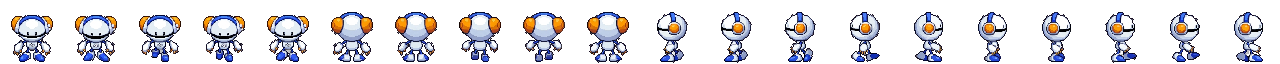
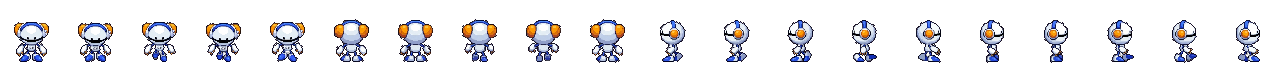
오투모: 크기 줄이기(키 50 → 42) · 목도리 · 얼굴 자리 다시 맞춤 · 넘어진 모습을 머리부터 흙에 처박힌 모습으로 · 학교 · 마을을 걷던 학생을 바로 북서쪽 숲 끝 외진 곳으로 데려가 비행선 추락 연출 시작
Claude-Session: https://claude.ai/code/session_01HhJ2NoNCjk5kaA3GWL7UDs

Changed region(s): [[0.0, 0.1875, 1.0, 0.9688]]

diff --git a/public/index.html b/public/index.html
@@ -882,6 +882,7 @@ body.gtride #bar,body.gtride #chat,body.gtride #ctx,body.gtride .corner{opacity:
 .say.bb-snow{background:#1E2048;color:#FFF3C8;box-shadow:0 0 0 2px #FFE9A0,0 0 10px rgba(255,233,160,.6);border-radius:12px}.say.bb-snow::after{border-top-color:#FFE9A0}.say.bb-snow::before{content:'★';position:absolute;left:-7px;top:-9px;font-size:12px;color:#FFE9A0;text-shadow:0 0 6px #FFE9A0}
 .adknit{display:flex;gap:12px;flex-wrap:wrap;align-items:flex-start;margin:8px 0;padding:8px;border-radius:10px;background:rgba(255,184,168,.08)}.adknit>div:first-child{display:flex;flex-direction:column;align-items:center;gap:4px}.adknit [data-knitdoll]{min-width:384px;height:128px;display:flex;background:#2A1E3A;border-radius:10px}.adknit canvas,.adknit img,.adknitall canvas,.adknitall img{image-rendering:pixelated;display:block}.adknit small{font-size:11px;opacity:.75;max-width:384px;text-align:center}.adknitall{display:grid;grid-template-columns:repeat(auto-fill,minmax(200px,1fr));gap:6px;flex:1;min-width:200px}.adknitall span{display:flex;flex-direction:column;align-items:center;font-size:11px;gap:2px}.adknitall i{width:192px;height:64px;background:#2A1E3A;border-radius:8px;display:flex}
 .say.bb-garden{background:#E8FFD8;color:#1E3A14;box-shadow:0 0 0 2px #5AA84A;border-radius:12px}.say.bb-garden::after{border-top-color:#5AA84A}.say.bb-garden::before{content:'';position:absolute;right:-6px;top:-8px;width:10px;height:8px;background:#5AA84A;border-radius:8px 0 8px 0}
+#otcover{position:fixed;inset:0;background:#05030a;opacity:0;transition:opacity .7s;z-index:344;pointer-events:none}#otcover.on{opacity:1}
 #otbang{position:fixed;left:50%;top:38%;transform:translate(-50%,-50%) scale(.4) rotate(-8deg);opacity:0;z-index:345;font-family:var(--f-pxb);font-size:44px;color:#FFE9A0;text-shadow:3px 3px 0 #1a1024,-2px -2px 0 #1a1024;transition:all .25s cubic-bezier(.2,1.6,.4,1);pointer-events:none}#otbang.on{opacity:1;transform:translate(-50%,-50%) scale(1) rotate(-8deg)}
 #cv.otshake{animation:otshake .45s}@keyframes otshake{20%{transform:translate(-4px,3px)}40%{transform:translate(4px,-3px)}60%{transform:translate(-3px,-2px)}80%{transform:translate(2px,2px)}}
 #knv{position:fixed;left:50%;top:calc(50% + 4px);transform:translate(-50%,-50%) scale(.92);opacity:0;transition:all .35s cubic-bezier(.2,1.3,.4,1);z-index:330;width:min(94vw,390px);max-height:calc(100vh - 150px);overflow:auto;background:rgba(20,13,34,.97);border:2px solid #FFB8A8;border-radius:16px;padding:10px;font-family:var(--f-px);color:#F1E9FF;box-shadow:0 0 24px rgba(255,184,168,.3);overscroll-behavior:contain}
@@ -4248,7 +4249,7 @@ function renderCook(){
 const NPC_ART_V = 7;
 const NPC_DATA_V = 3;   // data/npc 캐시 버전
 // LPC NPC 그림(art/npcs.png: 한 줄 = 한 명, 64칸 20개)에서 얼굴 부분만 크게 (초상화)
-const NPC_FACE = { 0: [13, 14, 31], 1: [18, 12, 29], 2: [20, 16, 28], 3: [17, 18, 31], 4: [19, 23, 32], 5: [12, 9, 39], 13: [11, 11, 42] };   // 동물·허수아비는 사람과 머리 위치가 달라요 (나비·배트리·캇파·아울라·맨디·스트로 얼굴 틀: x, y, 크기)
+const NPC_FACE = { 0: [13, 14, 31], 1: [18, 12, 29], 2: [20, 16, 28], 3: [17, 18, 31], 4: [19, 23, 32], 5: [12, 9, 39], 13: [14, 20, 35] };   // 동물·허수아비는 사람과 머리 위치가 달라요 (나비·배트리·캇파·아울라·맨디·스트로 얼굴 틀: x, y, 크기)
 const npcFace = (spr, size = 48) => {   // 액자 크기가 CSS로 바뀌어도(관계 화면 40px 등) 얼굴이 가운데에 오도록 그림 크기·위치를 퍼센트로 계산해요
   const hb = NPC_FACE[spr], B = hb ? { x: hb[0], y: hb[1], s: hb[2] } : World.Avatar.headBox, SW = 64 * 20, SH = 64 * 14;
   return `<i class="npcspr" style="width:${size}px;height:${size}px;background:url(art/npcs.webp?v=${NPC_ART_V}) ${(B.x / (SW - B.s) * 100).toFixed(3)}% ${((spr * 64 + B.y) / (SH - B.s) * 100).toFixed(3)}%/${(SW / B.s * 100).toFixed(2)}% ${(SH / B.s * 100).toFixed(2)}% no-repeat"></i>`; };
@@ -9723,7 +9724,7 @@ const knFace = (n, sc) => g => { g.fillStyle = '#2A1E3A'; g.fillRect(0, 0, 32, 3
   if (n.av){ const S = World.Avatar.compose(sc ? knAvWith(npcAv(n), sc) : npcAv(n)), B = World.Avatar.headBox; if (S) g.drawImage(S, B.x, B.y, B.s, B.s, 0, 0, 32, 32); return; }
   const f = NPC_FACE[n.spr], I = knSprSheet(n, sc) || knNpcImg(); if (f && (I.width || I.complete)) g.drawImage(I, f[0], (I === NPC_IMG_STAGE ? n.spr * 64 : 0) + f[1], f[2], f[2], 0, 0, 32, 32); };
 // ---------- 그림 NPC(동물 · 허수아비) 목도리: 앞 · 옆 · 뒤마다 직접 잡은 목 자리 (tools/iso/lpc/knit_npc.py와 같아요) ----------
-const KN_SP = { 13: [[40, 24, 41], [42, 27, 36], [40, 25, 39]], 0: [[40, 23, 34], [42, 22, 30], [36, 28, 40]], 1: [[38, 26, 39], [37, 24, 34], [37, 27, 41]], 2: [[39, 27, 41], [39, 28, 42], [38, 28, 42]], 3: [[41, 24, 39], [41, 25, 37], [40, 22, 41]], 5: [[40, 26, 38], [40, 27, 37], [40, 26, 38]] };
+const KN_SP = { 13: [[42, 23, 40], [44, 28, 36], [43, 23, 38]], 0: [[40, 23, 34], [42, 22, 30], [36, 28, 40]], 1: [[38, 26, 39], [37, 24, 34], [37, 27, 41]], 2: [[39, 27, 41], [39, 28, 42], [38, 28, 42]], 3: [[41, 24, 39], [41, 25, 37], [40, 22, 41]], 5: [[40, 26, 38], [40, 27, 37], [40, 26, 38]] };
 const KN_LEAF = [[37, 31, 37], [37, 30, 36], [37, 31, 37]];   // 맨디: 가운데 잎줄기
 const knRgb = h => { const n = parseInt(h.slice(1), 16); return [n >> 16 & 255, n >> 8 & 255, n & 255]; };
 function knFill(L, pts, ramp){   // LPC식 칠하기: 왼쪽 위가 밝고 · V 뜨개 결 · 바깥 테두리는 가장 진한 색
@@ -9988,12 +9989,16 @@ function placeNear(){   // 지금 서 있는 곳에서 가장 가까운 장소 (
 function otCell(col, mode){   // NPC 그림 14 번째 줄의 한 칸 → 64 × 64 · mode: 'down' 엎어짐 · 'twitch' 꿈틀 · 'glitch' 지지직
   const I = NPC_IMG_STAGE || (NPC_IMG_STAGE = Object.assign(new Image(), { src: `art/npcs.webp?v=${NPC_ART_V}` })), c = document.createElement('canvas'); c.width = c.height = 64; const g = c.getContext('2d'); g.imageSmoothingEnabled = false;
   if (!I.complete || !I.naturalWidth) return c;
-  if (mode === 'down' || mode === 'twitch'){ g.save(); g.translate(32, 50 + (mode === 'twitch' ? -1 : 0)); g.rotate(-Math.PI / 2 + (mode === 'twitch' ? .08 : 0)); g.drawImage(I, col * 64, 13 * 64, 64, 64, -50, -32, 64, 64); g.restore(); }
+  if (mode === 'down' || mode === 'twitch'){   // 머리부터 흙에 처박혀서 다리만 위로 (뒷모습을 거꾸로) · 꿈틀이면 다리가 바르작
+    const w = mode === 'twitch' ? 1 : 0; g.save(); g.beginPath(); g.rect(0, 0, 64, 53); g.clip(); g.translate(32 + w, 64 + 25); g.scale(1, -1); g.drawImage(I, 5 * 64, 13 * 64, 64, 64, -32, 0, 64, 64); g.restore();
+    const ell = (cx, cy, rx, ry, col) => { g.fillStyle = col; g.beginPath(); g.ellipse(cx, cy, rx, ry, 0, 0, 7); g.fill(); }; ell(32, 55, 19, 5, '#1a1024'); ell(32, 54, 18, 4, '#6a4428'); ell(29, 53, 11, 2, '#8a5c36');   // 흙더미
+    g.fillStyle = '#1a1024'; [[12, 51], [50, 52], [18, 57], [46, 57]].forEach(([x, y]) => g.fillRect(x, y, 3, 2));
+    if (mode === 'down'){ g.fillStyle = '#fff3a0'; [[22, 30], [42, 28], [32, 24]].forEach(([x, y]) => { g.fillRect(x, y, 1, 3); g.fillRect(x - 1, y + 1, 3, 1); }); } }   // 어지러운 별
   else { const jx = mode === 'glitch' ? Math.round(Math.random() * 4 - 2) : 0; g.drawImage(I, col * 64, 13 * 64, 64, 64, jx, 0, 64, 64);
     if (mode === 'glitch'){ g.globalCompositeOperation = 'source-atop'; g.fillStyle = Math.random() < .5 ? 'rgba(120,255,240,.35)' : 'rgba(255,90,120,.3)'; const y = Math.floor(Math.random() * 40) + 10; g.fillRect(0, y, 64, 2 + Math.floor(Math.random() * 3)); g.globalCompositeOperation = 'source-over'; } }
   return c;
 }
-const OT_UFO = [42, 95], OT_LAND = [44, 97];   // 낡은 풍차 옆 빈터 (독초 온실 아래): 부서진 비행선 · 오투모가 엎어진 자리
+const OT_UFO = [11, 5], OT_LAND = [13, 7], OT_START = [16, 9];   // 학교 북서쪽 숲 끝 외진 곳: 부서진 비행선 · 오투모가 처박힌 자리 · 연출이 시작될 때 주인공이 서 있는 자리
 let otUfoCv = null, otUfoT = 0, otUfoOn = false;
 function otUfoDraw(t){   // 반쯤 묻혀 연기 나는 비행선 (80 × 60)
   const c = otUfoCv || (otUfoCv = Object.assign(document.createElement('canvas'), { width: 80, height: 60 })), g = c.getContext('2d'); g.imageSmoothingEnabled = false; g.clearRect(0, 0, 80, 60);
@@ -10014,8 +10019,16 @@ function otUfoDraw(t){   // 반쯤 묻혀 연기 나는 비행선 (80 × 60)
 function otUfoProp(ay = 50){ const c = otUfoDraw(performance.now()); World.setProps('campus', [{ id: 'otufo', x: OT_UFO[0], y: OT_UFO[1], img: c, pxc: c.getContext('2d'), sw: 80, sh: 60, ax: 40, ay, solid: true, light: { r: 26, c: [140, 220, 255], a: .35 } }], 'otufo'); }
 setInterval(() => { if (!otUfoOn || !otUfoCv) return; otUfoDraw(performance.now()); }, 200);   // 같은 그림을 다시 그려서 연기 · 불빛이 움직여요
 function otUfoSync(){ const want = otMet() || otOn; if (want === otUfoOn) return; otUfoOn = want; if (want) otUfoProp(); else World.setProps('campus', [], 'otufo'); }
-async function otIntro(){   // 풍차 옆 빈터: 비행선이 휙 → 철푸덕 → 오투모가 튕겨 나와 엎어짐 → 가 보면 꿈틀 → 지지직 삐리삐리
-  otOn = true; const t = World.meTile(); let dim = null, bang = null;
+async function otIntro(){   // 어디서 걷고 있든 → 화면이 어두워지며 외진 숲 끝으로 → 비행선이 휙 → 철푸덕 → 오투모가 튕겨 나와 처박힘 → 가 보면 꿈틀 → 지지직 삐리삐리
+  otOn = true; let dim = null, bang = null, cover = document.createElement('div');
+  cover.id = 'otcover'; document.body.appendChild(cover); requestAnimationFrame(() => cover.classList.add('on')); await famSleep(700);
+  let arrived = false;
+  for (let k = 0; k < 80 && !arrived; k++){   // 다른 이동 중이면 받아 주지 않아서, 도착할 때까지 다시 불러요
+    if (k % 10 === 0) World.teleport('campus', OT_START);
+    await famSleep(150); const tt = World.meTile && World.meTile(); arrived = !!(tt && tt.m === 'campus' && Math.abs(tt.x - OT_START[0]) + Math.abs(tt.y - OT_START[1]) <= 1 && World.meAt && World.meAt()); }
+  if (!arrived){ cover.classList.remove('on'); setTimeout(() => cover.remove(), 900); otOn = false; return; }   // 못 옮기면 다음에 다시
+  await famSleep(400); World.faceTo && World.faceTo(OT_UFO[0], OT_UFO[1]);
+  cover.classList.remove('on'); setTimeout(() => cover.remove(), 900); await famSleep(900);
   const I = NPC_IMG_STAGE || (NPC_IMG_STAGE = Object.assign(new Image(), { src: `art/npcs.webp?v=${NPC_ART_V}` }));
   if (!I.complete) await new Promise(r => { I.addEventListener('load', r, { once: true }); setTimeout(r, 3000); });
   const spot = OT_LAND, place = (c, ay = 58) => World.setProps('campus', [{ id: 'otfall', x: spot[0], y: spot[1], img: c, pxc: c.getContext('2d'), sw: 64, sh: 64, ax: 32, ay, solid: true }], 'otumo');
@@ -10026,7 +10039,7 @@ async function otIntro(){   // 풍차 옆 빈터: 비행선이 휙 → 철푸덕
     bang = document.createElement('div'); bang.id = 'otbang'; bang.textContent = '철푸덕!'; document.body.appendChild(bang); requestAnimationFrame(() => bang.classList.add('on'));
     const down = otCell(5, 'down'); for (let k = 0; k <= 8; k++){ place(down, 58 + Math.round(Math.sin(k / 8 * Math.PI) * 30)); await famSleep(45); }   // 비행선에서 튕겨 나와 엎어져요
     sfx('pop'); await famSleep(800); bang.classList.remove('on'); World.say('me', '.......!'); await famSleep(900);
-    World.walkToTile(spot[0] + 1, spot[1] + 1); await famSleep(1800);   // 가 보면
+    World.walkToTile(spot[0] + 1, spot[1] + 1); await famSleep(1500);   // 가 보면
     for (let k = 0; k < 4; k++){ place(otCell(5, k % 2 ? 'twitch' : 'down')); await famSleep(k % 2 ? 160 : 520); }   // 꿈틀
     dim = document.createElement('div'); dim.className = 'bldim'; document.body.appendChild(dim); requestAnimationFrame(() => dim.style.opacity = .35);
     for (let k = 0; k < 18; k++){ place(otCell([0, 10, 15, 0][k % 4], 'glitch')); if (k % 3 === 0) sfx('pick'); await famSleep(90); }   // 일어나며 지지직
@@ -10037,23 +10050,21 @@ async function otIntro(){   // 풍차 옆 빈터: 비행선이 휙 → 철푸덕
   finally {
     me.otumo = { met: 1, at: now2(), id: otCtl && otCtl.id, spot: ['campus', spot[0], spot[1]] };
     const st = npcSt('otumo'); if ((st.a || 0) < 100) st.a = 100;   // 처음부터 하트 1 개
-    save(); World.setProps('campus', [], 'otumo'); bang && bang.remove(); if (dim){ dim.style.opacity = 0; setTimeout(() => dim.remove(), 600); }
+    save(); World.setProps('campus', [], 'otumo'); bang && bang.remove(); $('#otcover')?.remove(); if (dim){ dim.style.opacity = 0; setTimeout(() => dim.remove(), 600); }
     otOn = false; otUfoOn = false; otUfoSync(); npcSig = ''; syncNpcs(); toast('비행선에서 떨어진 로봇이 있어요. 말을 걸어 봐요');
   }
 }
 let otNudgeT = 0;
 function otTick(){
   if (!me) return; otUfoSync(); if (otOn || otMet() || !otCtl || !otCtl.open) return;
-  const t = World.meTile && World.meTile(); if (!t || t.m !== 'campus' || uiBusy() || !(World.meAt && World.meAt())) return;
-  const d = Math.hypot(t.x - OT_UFO[0], t.y - OT_UFO[1]);
-  if (d <= 12){ if (evTurn('otumo')) otIntro(); return; }
-  if (Date.now() - otNudgeT > 120000){ otNudgeT = Date.now(); toast('낡은 풍차 옆 빈터 쪽 하늘이 이상하게 반짝여요.......'); }   // 아직 못 본 학생에게 가끔 알려 줘요
+  const t = World.meTile && World.meTile(); if (!t || !['campus', 'town', 'quarter'].includes(t.m) || uiBusy() || !(World.meAt && World.meAt())) return;   // 학교 · 마을 · 그림자 골목을 걷고 있으면
+  if (evTurn('otumo')) otIntro();
 }
 function otumoListen(){
   if (otOffs.length) return; otOffs.push(GDB.on('otumo/ctl', v => { otCtl = v || null; }));
   setInterval(() => { try { otTick(); } catch(e){ errReport('otumo', '오투모 tick 오류: ' + e.message, e.stack || ''); } }, 1500);
 }
-window.__ot = { intro: () => otIntro(), ctl: () => otCtl };   // 시험용
+window.__ot = { intro: () => otIntro(), ctl: () => otCtl, cell: (c, m) => otCell(c, m), ufo: () => otUfoDraw(performance.now()) };   // 시험용
 window.__adOtumo = () => adminOtumoHTML();   // 시험용
 function adminOtumoHTML(){
   const c = AD.otctl || {}, P = AD.players || {}, ids = Object.keys(P).filter(id => P[id]?.nick), IN = ids.filter(id => P[id].otumo && P[id].otumo.met), not = ids.filter(id => !(P[id].otumo && P[id].otumo.met));
@@ -10063,7 +10074,7 @@ function adminOtumoHTML(){
   return `<div class="adcard sdad"><div class="abhead"><b>오투모 등장</b>${c.open ? '<button class="btn sm" data-ota="close">시작 연출 끝내기</button>' : '<button class="btn sm go" data-ota="open">시작하기</button>'}</div>
     <div class="abchips"><span>${c.open ? '여는 중' : '닫힘'}</span><span>등장을 본 학생 <b>${IN.length}</b> / ${ids.length}</span></div>
     ${rows || '<div class="s">아직 등장을 본 학생이 없어요</div>'}${not.length ? `<div class="s" style="margin-top:4px">아직 못 본 학생: ${not.map(id => esc(P[id].nick)).join(', ')}</div>` : ''}
-    <div class="s" style="margin-top:6px">시작하면 학생이 낡은 풍차 옆 빈터에 가까이 갔을 때 비행선과 함께 오투모가 철푸덕 떨어져요 (못 본 학생에게는 2 분마다 하늘이 반짝인다고 알려 줘요). 만나면 바로 하트 1 개 · 1 장 이야기는 언제 어디서나. 부서진 비행선은 그 자리에 계속 남아요. 끝내기를 눌러도 이미 만난 학생은 오투모와 계속 이어 가요.</div></div>`;
+    <div class="s" style="margin-top:6px">시작하면 학교 · 마을을 걷고 있던 학생이 화면이 어두워지며 학교 북서쪽 숲 끝으로 옮겨지고, 비행선과 함께 오투모가 철푸덕 떨어져요. 만나면 바로 하트 1 개 · 1 장 이야기는 언제 어디서나. 부서진 비행선은 그 자리에 계속 남아요. 끝내기를 눌러도 이미 만난 학생은 오투모와 계속 이어 가요.</div></div>`;
 }
 document.addEventListener('click', e => { const b = e.target.closest && e.target.closest('[data-ota]'); if (!b) return;
   if (b.dataset.ota === 'open'){ if (confirm('「오투모 등장」을 시작할까요? 학생마다 걷던 자리 옆에 오투모가 떨어져요.')) GDB.set('otumo/ctl', { open: true, id: (AD.otctl && AD.otctl.id) || now2(), at: now2() }).then(() => toast('오투모 등장을 시작했어요')); }
